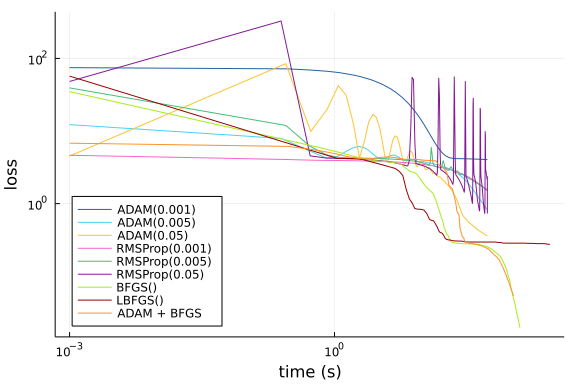
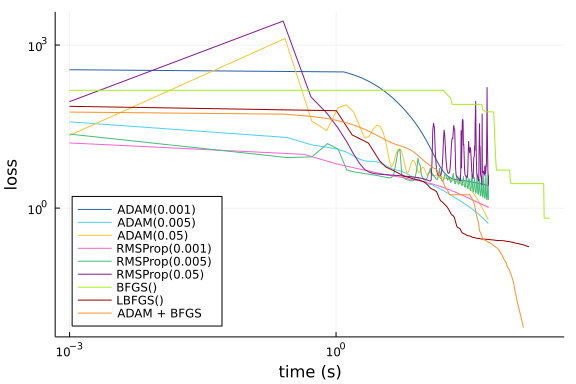
Automatic build\nPublished by build of: https://github.com/SciML/SciMLBenchmarks.jl/commit/61c047455ef7845709acad38f267d75462b74631

diff --git a/markdown/PINNOptimizers/hamilton_jacobi.md b/markdown/PINNOptimizers/hamilton_jacobi.md
@@ -87,7 +87,7 @@ function solve(opt)
     ## NEURAL NETWORK
     n = 20   #neuron number
 
-    chain = Lux.Chain(Lux.Dense(5,n,Lux.σ),Lux.Dense(n,n,Lux.σ),Lux.Dense(n,1))   #Neural network from OptimizationFlux library
+    chain = Lux.Chain(Lux.Dense(5,n,tanh),Lux.Dense(n,n,tanh),Lux.Dense(n,1))   #Neural network from OptimizationFlux library
 
     discretization = PhysicsInformedNN(chain, strategy)
 
@@ -182,17 +182,17 @@ loss_9, times_9 = solve("both")
 ```
 
 ```
-(Any[6.800513483914133, 6.144213783846879, 5.583893751081597, 5.12030688510
-411, 4.752645369915043, 4.477972712527921, 4.290715409539998, 4.18197892435
-4212, 4.139537809725766, 4.148040317726564  …  0.06324859813271537, 0.06220
-8989230391934, 0.06048862031726133, 0.05857564878710987, 0.0580192246272423
-36, 0.0569596878715663, 0.05625777331366819, 0.05516334567902856, 0.0542872
-923834638, 0.0532111079981827], Any[0.001, 0.29583001136779785, 0.544322013
-8549805, 0.8323540687561035, 1.1131000518798828, 1.3618319034576416, 1.6438
-970565795898, 1.924027919769287, 2.1729419231414795, 2.4544520378112793  … 
- 101.50458908081055, 102.08419895172119, 102.61852288246155, 103.1523571014
-4043, 103.7291169166565, 104.26563906669617, 104.7997179031372, 105.3725650
-3105164, 105.91230487823486, 106.44653511047363])
+(Any[58.50292399621151, 53.550995599346145, 48.94262125358286, 44.676860295
+60858, 40.74923671579711, 37.15215726265549, 33.87735323777565, 30.91492147
+5730196, 28.251805906064234, 25.87477252502405  …  0.008184063578029442, 0.
+008068540595508537, 0.007900963711302498, 0.007682878947461265, 0.007412722
+491813935, 0.007058565228459336, 0.00686699629408717, 0.0066651730604333015
+, 0.006495476630667968, 0.006311783832459027], Any[0.001, 0.261291027069091
+8, 0.5163540840148926, 0.7872140407562256, 1.0426139831542969, 1.3134720325
+46997, 1.568864107131958, 1.8237080574035645, 2.0946879386901855, 2.3501670
+360565186  …  123.86953210830688, 124.41660594940186, 124.93901300430298, 1
+25.50444102287292, 126.06708908081055, 126.61215591430664, 127.133630037307
+74, 127.67642092704773, 128.2182149887085, 128.73882603645325])
 ```
 
 
@@ -219,12 +219,13 @@ p = plot([loss_1, loss_2, loss_3, loss_4, loss_5, loss_6, loss_7, loss_8, loss_9
 
 ```
 (loss_1[end], loss_2[end], loss_3[end], loss_4[end], loss_5[end], loss_6[en
-d], loss_7[end], loss_8[end], loss_9[end]) = (4.036991533446508, 0.81674508
-88135143, 0.3567758481165186, 1.498630540619294, 1.5504305696389182, 0.7320
-405887896317, 0.019511708366690153, 0.27318326723142, 0.0532111079981827)
-(4.036991533446508, 0.8167450888135143, 0.3567758481165186, 1.4986305406192
-94, 1.5504305696389182, 0.7320405887896317, 0.019511708366690153, 0.2731832
-6723142, 0.0532111079981827)
+d], loss_7[end], loss_8[end], loss_9[end]) = (2.5835739951328267, 0.5227691
+789303975, 0.6041717101099481, 1.0365058850504243, 1.4265196344795572, 2.66
+56707703862663, 0.6522855476336697, 0.193396873454065, 0.006311783832459027
+)
+(2.5835739951328267, 0.5227691789303975, 0.6041717101099481, 1.036505885050
+4243, 1.4265196344795572, 2.6656707703862663, 0.6522855476336697, 0.1933968
+73454065, 0.006311783832459027)
 ```
 
 
